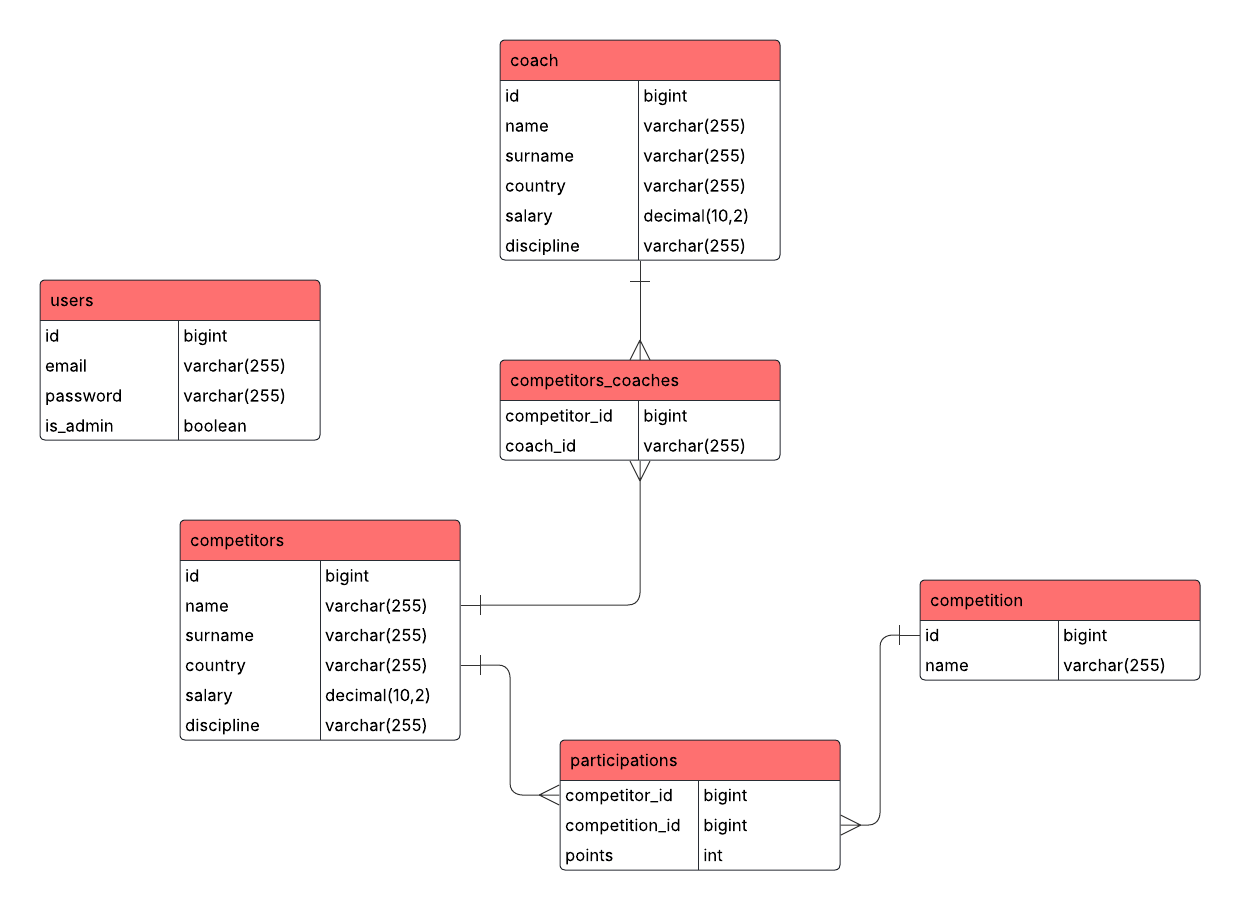
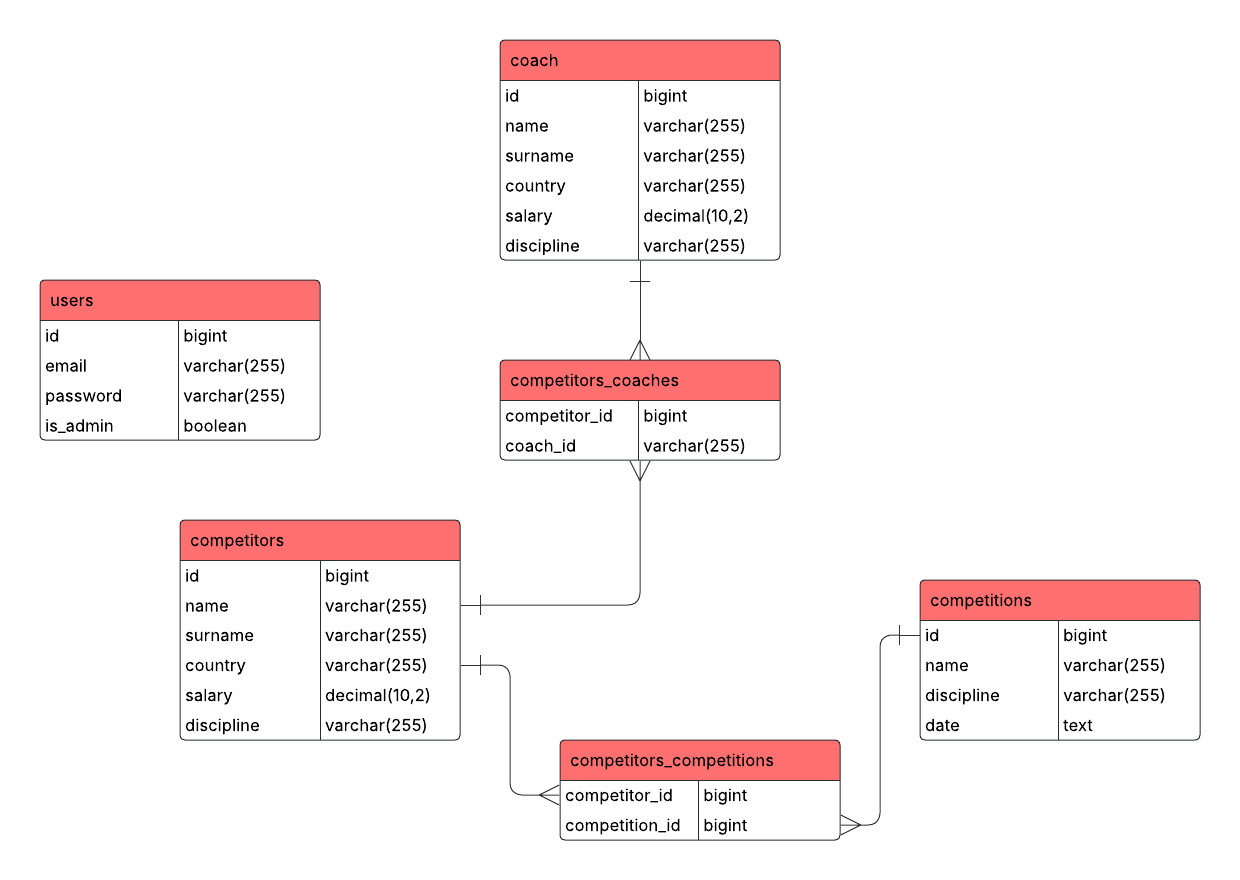
Competition Model

diff --git a/src/main/java/dev/kalbarczyk/sportsmanager/competition/model/Competition.java b/src/main/java/dev/kalbarczyk/sportsmanager/competition/model/Competition.java
@@ -1,0 +1,38 @@
+package dev.kalbarczyk.sportsmanager.competition.model;
+
+import dev.kalbarczyk.sportsmanager.common.model.BaseEntity;
+import dev.kalbarczyk.sportsmanager.competitor.model.Competitor;
+import dev.kalbarczyk.sportsmanager.person.enums.Discipline;
+import jakarta.persistence.*;
+import lombok.Getter;
+import lombok.NoArgsConstructor;
+import lombok.NonNull;
+import lombok.Setter;
+
+import java.time.LocalDate;
+import java.util.HashSet;
+import java.util.Set;
+
+@Getter
+@Setter
+@NoArgsConstructor
+@Entity
+@Table(name = "competitions")
+public class Competition extends BaseEntity {
+    @ManyToMany(mappedBy = "competitions")
+    private Set<Competitor> competitors = new HashSet<>();
+    @NonNull
+    @Column(nullable = false, name = "name")
+    private String name;
+
+    @NonNull
+    @Enumerated(EnumType.STRING)
+    @Column(nullable = false, name = "discipline")
+    private Discipline discipline;
+
+    @NonNull
+    @Column(nullable = false, name = "date")
+    private LocalDate date;
+
+
+}
